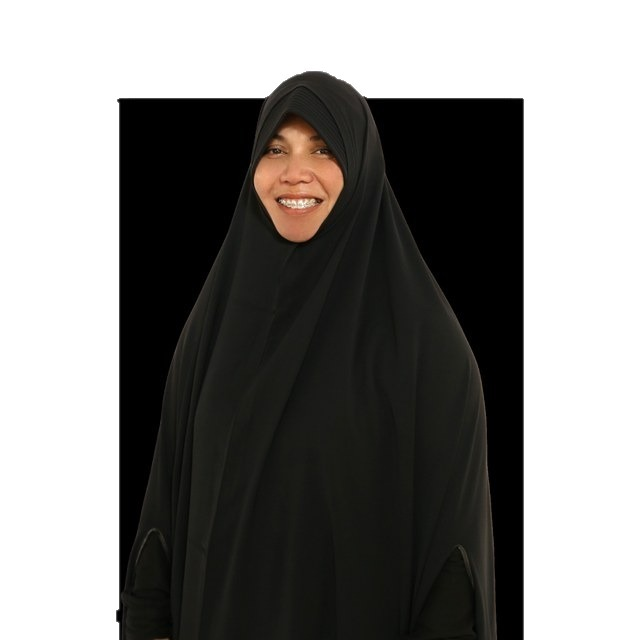
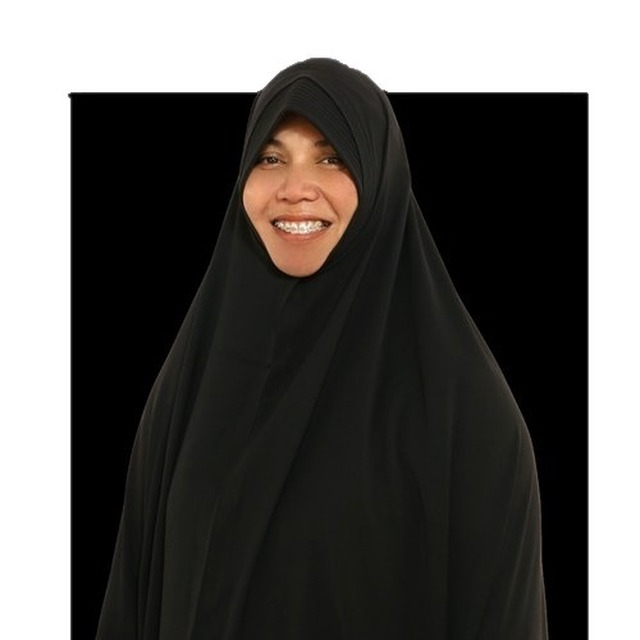
Mobile fullscreen seat picker (bigger tappable seats + pan), bold speaker photo rings, zoom-cropped photos, registration-close countdown milestone

diff --git a/frontend/src/pages/LandingPage.jsx b/frontend/src/pages/LandingPage.jsx
@@ -29,6 +29,21 @@ export default function LandingPage({ onSelectPackage, setPage }) {
   const [seatPick, setSeatPick] = useState(null);
   const [seatSel, setSeatSel] = useState([]);
   const [seatError, setSeatError] = useState(null);
+  // HP => peta pilih kursi dibuka layar penuh (kursi besar, geser kiri-kanan)
+  const [isMobile, setIsMobile] = useState(() => window.matchMedia ? window.matchMedia("(max-width: 620px)").matches : false);
+
+  useEffect(() => {
+    if (!window.matchMedia) return;
+    const mq = window.matchMedia("(max-width: 620px)");
+    const fn = (e) => setIsMobile(e.matches);
+    mq.addEventListener("change", fn);
+    return () => mq.removeEventListener("change", fn);
+  }, []);
+
+  useEffect(() => {
+    document.body.style.overflow = seatPick && isMobile ? "hidden" : "";
+    return () => { document.body.style.overflow = ""; };
+  }, [seatPick, isMobile]);
   const [usingCache, setUsingCache] = useState(false);
 
   const CACHE_KEY = "dutaqu_packages_cache_v1";
@@ -124,10 +139,12 @@ export default function LandingPage({ onSelectPackage, setPage }) {
     setSeatPick({ cat, seatType, pkg });
     setSeatSel([]);
     setSeatError(null);
-    setTimeout(() => {
-      const el = document.getElementById("seat-map-section");
-      if (el) el.scrollIntoView({ behavior: "smooth", block: "center" });
-    }, 60);
+    if (!window.matchMedia || !window.matchMedia("(max-width: 620px)").matches) {
+      setTimeout(() => {
+        const el = document.getElementById("seat-map-section");
+        if (el) el.scrollIntoView({ behavior: "smooth", block: "center" });
+      }, 60);
+    }
   };
 
   // Klik kursi di peta (hanya zona aktif, kursi kosong)
@@ -296,8 +313,9 @@ export default function LandingPage({ onSelectPackage, setPage }) {
                 borderRadius: "50%",
                 margin: "0 auto 20px auto",
                 overflow: "hidden",
-                border: "4px solid rgba(37, 99, 235, 0.15)",
-                boxShadow: "0 8px 20px rgba(12, 36, 80, 0.12)"
+                border: "4px solid var(--color-primary)",
+                boxShadow: "0 10px 26px rgba(12, 36, 80, 0.22), 0 0 0 1px rgba(37, 99, 235, 0.3)",
+                background: "white"
               }}>
                 <img src="/speakers/indra-noveldy.jpg" alt="Coach Indra Noveldy" style={{ width: "100%", height: "100%", objectFit: "cover" }} />
               </div>
@@ -316,8 +334,9 @@ export default function LandingPage({ onSelectPackage, setPage }) {
                 borderRadius: "50%",
                 margin: "0 auto 20px auto",
                 overflow: "hidden",
-                border: "4px solid rgba(37, 99, 235, 0.15)",
-                boxShadow: "0 8px 20px rgba(12, 36, 80, 0.12)"
+                border: "4px solid var(--color-primary)",
+                boxShadow: "0 10px 26px rgba(12, 36, 80, 0.22), 0 0 0 1px rgba(37, 99, 235, 0.3)",
+                background: "white"
               }}>
                 <img src="/speakers/abi-heru.jpg" alt="Abi Heru Arrasyid" style={{ width: "100%", height: "100%", objectFit: "cover" }} />
               </div>
@@ -336,8 +355,9 @@ export default function LandingPage({ onSelectPackage, setPage }) {
                 borderRadius: "50%",
                 margin: "0 auto 20px auto",
                 overflow: "hidden",
-                border: "4px solid rgba(37, 99, 235, 0.15)",
-                boxShadow: "0 8px 20px rgba(12, 36, 80, 0.12)"
+                border: "4px solid var(--color-primary)",
+                boxShadow: "0 10px 26px rgba(12, 36, 80, 0.22), 0 0 0 1px rgba(37, 99, 235, 0.3)",
+                background: "white"
               }}>
                 <img src="/speakers/ummi-rasyid.jpg" alt="Ummi Rasyid" style={{ width: "100%", height: "100%", objectFit: "cover" }} />
               </div>
@@ -787,6 +807,52 @@ export default function LandingPage({ onSelectPackage, setPage }) {
                   />
                 </div>
               </div>
+
+              {/* ===== Peta pilih kursi LAYAR PENUH untuk HP ===== */}
+              {seatPick && isMobile && (
+                <div className="seat-picker-fs">
+                  <div className="seat-picker-fs-header">
+                    <span style={{ fontSize: "13px", fontWeight: 800, padding: "6px 14px", borderRadius: "999px", background: WAR_INFO[seatPick.cat].color + "1a", color: WAR_INFO[seatPick.cat].color, textTransform: "uppercase", letterSpacing: "0.5px" }}>
+                      {WAR_INFO[seatPick.cat].label} • {seatPick.seatType === "couple" ? "Couple (2 kursi)" : "Personal (1 kursi)"}
+                    </span>
+                    <span style={{ fontSize: "12.5px", color: "var(--text-muted)" }}>
+                      {seatSel.length > 0 ? "Kursi: " + seatSel.map((n) => seatLabel(seatPick.cat, n)).join(" + ") : "Ketuk kursi putih untuk memilih"}
+                    </span>
+                    <button className="btn btn-secondary" style={{ padding: "7px 14px", fontSize: "13px", borderRadius: "10px" }} onClick={() => { setSeatPick(null); setSeatSel([]); setSeatError(null); }}>
+                      ✕ Tutup
+                    </button>
+                  </div>
+
+                  <div className="seat3d-panwrap">
+                    <div className="seat3d-pan">
+                      <SeatMap3D
+                        wrapClass="seat3d-fs"
+                        seatsMaps={seatsMaps}
+                        selectMode={{ cat: seatPick.cat, need: seatPick.seatType === "couple" ? 2 : 1 }}
+                        selected={seatSel}
+                        onSeatClick={handleSeatClick}
+                      />
+                    </div>
+                  </div>
+
+                  <div className="seat-picker-fs-footer">
+                    {seatError && <p style={{ color: "#b91c1c", fontSize: "12.5px", margin: "0 0 8px 0", textAlign: "center" }}>⚠ {seatError}</p>}
+                    {seatSel.length > 0 ? (
+                      <button
+                        className="btn btn-primary"
+                        style={{ width: "100%", padding: "14px", fontSize: "16px", fontWeight: 800 }}
+                        onClick={() => onSelectPackage(seatPick.pkg, { cat: seatPick.cat, seatType: seatPick.seatType, seats: seatSel })}
+                      >
+                        ✅ Lanjut Isi Data &amp; Bayar via WA ({seatSel.map((n) => seatLabel(seatPick.cat, n)).join(" + ")})
+                      </button>
+                    ) : (
+                      <p style={{ textAlign: "center", fontSize: "13px", color: "var(--text-muted)", margin: 0 }}>
+                        👆 Geser peta ke kiri-kanan, lalu ketuk kursi kosong (putih) untuk memilih
+                      </p>
+                    )}
+                  </div>
+                </div>
+              )}
 
               {/* Video & Foto Ruangan Asli (Masjid At-Tohir) */}
               <div style={{ maxWidth: "860px", margin: "56px auto 0 auto" }}>

diff --git a/frontend/src/index.css b/frontend/src/index.css
@@ -1166,3 +1166,68 @@ footer strong {
 /* Anchor navigation: target tidak ketutup navbar sticky + halus */
 html { scroll-behavior: smooth; }
 section[id] { scroll-margin-top: 92px; }
+
+/* ============================================================
+   PETA PILIH KURSI LAYAR PENUH (HP) — kursi besar untuk jari
+   ============================================================ */
+.seat-picker-fs {
+  position: fixed;
+  inset: 0;
+  z-index: 9999;
+  background: #0e1a2e;
+  display: flex;
+  flex-direction: column;
+}
+.seat-picker-fs-header {
+  display: flex;
+  align-items: center;
+  justify-content: space-between;
+  gap: 10px;
+  flex-wrap: wrap;
+  padding: 12px 14px;
+  background: #0b1526;
+  border-bottom: 1px solid rgba(212, 175, 55, 0.25);
+  color: #fff;
+}
+.seat3d-panwrap {
+  flex: 1;
+  overflow-x: auto;
+  overflow-y: auto;
+  -webkit-overflow-scrolling: touch;
+  display: flex;
+  align-items: flex-start;
+}
+.seat3d-pan {
+  width: 250%;
+  min-width: 250%;
+  flex-shrink: 0;
+}
+.seat3d-fs {
+  border-radius: 0;
+  padding: 10px;
+}
+.seat3d-fs .seat3d-scene {
+  height: 62vh;
+  min-height: 480px;
+}
+.seat3d-fs .seat3d-seat {
+  --sscale: 2.5;
+}
+.seat3d-fs .seat3d-seat.pickable::after {
+  inset: -9px;
+}
+.seat3d-fs .seat3d-plate {
+  font-size: 13px;
+  padding: 4px 16px;
+}
+.seat3d-fs .seat3d-legend,
+.seat3d-fs .seat3d-note {
+  font-size: 13px;
+}
+.seat-picker-fs-footer {
+  position: sticky;
+  bottom: 0;
+  padding: 14px 14px calc(14px + env(safe-area-inset-bottom, 0px));
+  background: #0b1526;
+  border-top: 1px solid rgba(212, 175, 55, 0.25);
+}

diff --git a/frontend/src/components/SeatMap3D.jsx b/frontend/src/components/SeatMap3D.jsx
@@ -47,7 +47,7 @@ export function buildStates(map) {
   return st;
 }
 
-export default function SeatMap3D({ seatsMaps = {}, selectMode = null, selected = [], onSeatClick }) {
+export default function SeatMap3D({ seatsMaps = {}, selectMode = null, selected = [], onSeatClick, wrapClass = "" }) {
   const zoneState = (cat) => {
     const st = categoryFreeCount(cat, seatsMaps[cat]);
     return st;
@@ -58,7 +58,7 @@ export default function SeatMap3D({ seatsMaps = {}, selectMode = null, selected 
   };
 
   return (
-    <div className="seat3d-wrap">
+    <div className={`seat3d-wrap${wrapClass ? " " + wrapClass : ""}`}>
       <div className="seat3d-scene">
         <div className="seat3d-world">
 

diff --git a/frontend/src/components/Hero.jsx b/frontend/src/components/Hero.jsx
@@ -6,7 +6,7 @@ import { Calendar, Clock, MapPin, Timer, Heart, Users, CheckCircle2 } from "luci
 const MILESTONES = [
   { at: new Date("2026-08-21T00:00:00+07:00"), label: "Pembukaan War Tiket Reguler" },
   { at: new Date("2026-08-25T00:00:00+07:00"), label: "Pembukaan War Tiket Premium" },
-  { at: new Date("2026-08-28T23:59:59+07:00"), label: "Penutupan War Tiket Premium" },
+  { at: new Date("2026-08-28T23:59:59+07:00"), label: "Penutupan Pendaftaran Tiket (Semua Kategori)" },
   { at: new Date("2026-09-09T07:30:00+07:00"), label: "Hari Seminar Sang Maha Cinta" }
 ];
 
